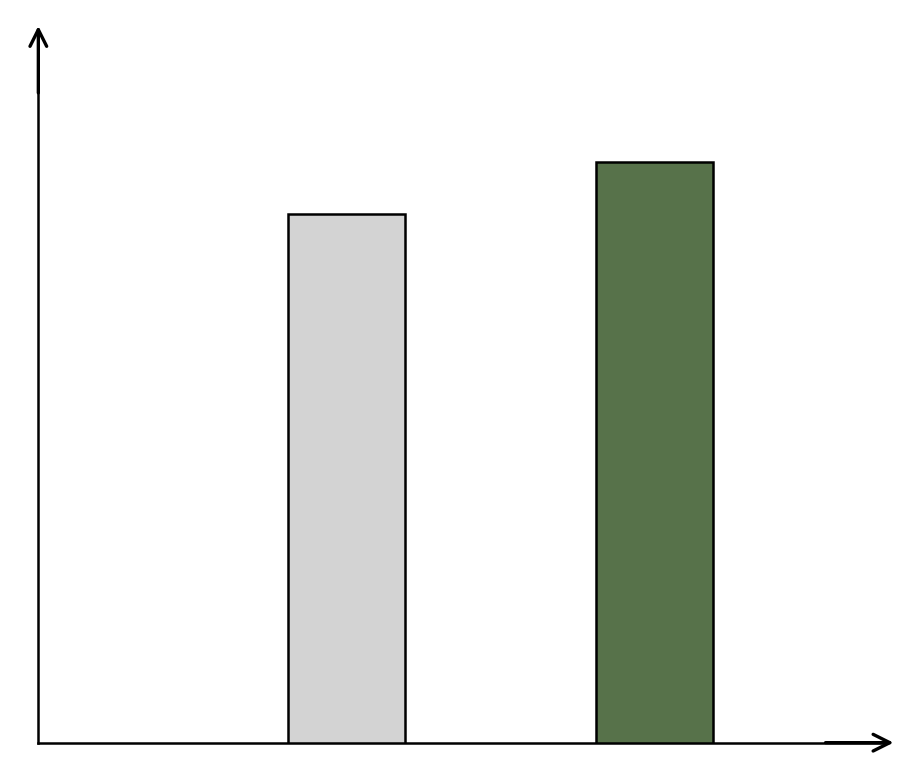
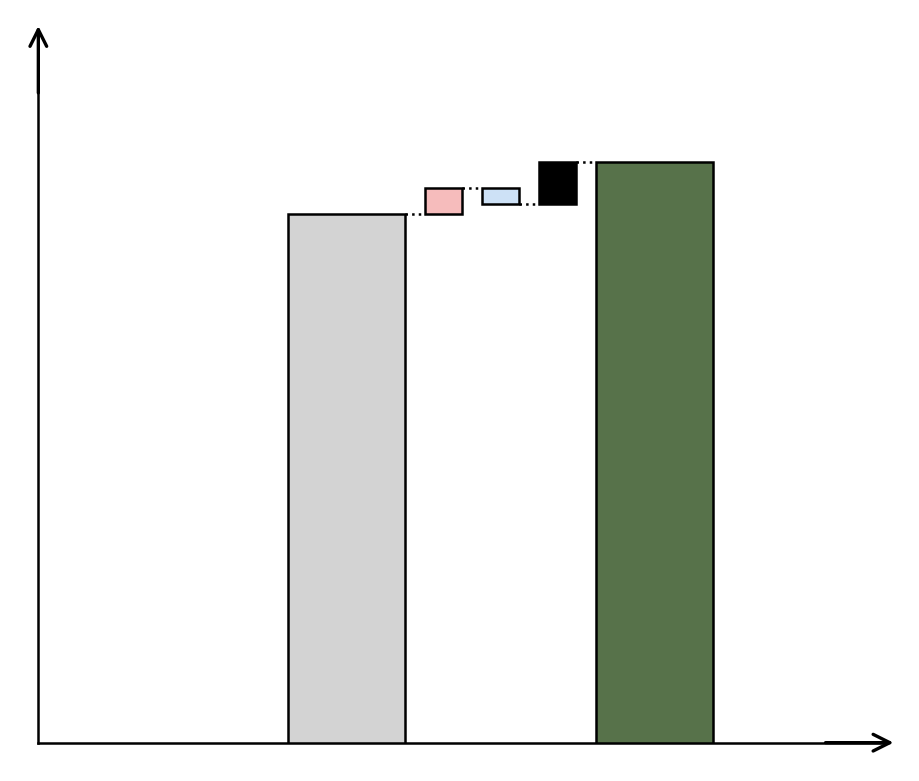
Add PPT waterfall mini-bars with equal spacing and step connectors only.

Changed region(s): [[0.457, 0.1844, 0.6398, 0.2766]]

diff --git a/analysis/paper_figures/ppt_bars_indic.py b/analysis/paper_figures/ppt_bars_indic.py
@@ -2,27 +2,107 @@
 Minimal PPT-style bar charts: L-shaped axes with arrows, no ticks or labels.
 
 - ppt_bar_1gray.png: one gray bar of height 1.
-- ppt_bar_2gray_green.png: gray bar 1 + green (#57724A) bar 1.1 side by side (waterfall connectors later).
+- ppt_bar_2gray_green.png: gray baseline + three mini waterfall deltas + green total bar.
 """
 
 from __future__ import annotations
 
+from dataclasses import dataclass
 from pathlib import Path
 
 import matplotlib.pyplot as plt
-import numpy as np
+
+from plot_colors import COLOR_THERMAL, COLOR_VISC_HOT
 
 GREEN_HEX = "#57724A"
-# Bar width and axis limits match the two-bar plot so both figs share the same pixel scale.
+# Bar width and axis limits shared across both figs for consistent pixel scale.
 BAR_WIDTH = 0.38
+MINI_BAR_WIDTH = 0.12
 X_MAX = 2.75
 Y_MAX = 1.32
 FIGSIZE = (3.4, 2.8)
 SUBPLOT_ADJ = dict(left=0.12, right=0.95, bottom=0.12, top=0.95)
 GRAY = "lightgray"
+BLACK = "black"
 EDGE = "black"
 EDGE_LW = 0.6
 ARROW_LW = 0.8
+
+# Placeholder waterfall data (easy to swap later).
+BASELINE = 1.0
+BASELINE_X = 1.0
+TOTAL_X = 2.0
+DELTAS: list[tuple[float, str | tuple[float, float, float, float]]] = [
+    (0.05, COLOR_THERMAL),
+    (-0.03, COLOR_VISC_HOT),
+    (0.08, BLACK),
+]
+
+
+@dataclass(frozen=True)
+class _BarSpec:
+    x: float
+    bottom: float
+    height: float
+    width: float
+    color: str | tuple[float, float, float, float]
+
+
+def _delta_bar_geom(cumul: float, delta: float) -> tuple[float, float, float]:
+    """Return (bottom, height, top) for a floating delta bar."""
+    if delta >= 0:
+        return cumul, delta, cumul + delta
+    return cumul + delta, -delta, cumul
+
+
+def _waterfall_mini_xs(
+    baseline_x: float,
+    total_x: float,
+    n_mini: int,
+    main_width: float = BAR_WIDTH,
+    mini_width: float = MINI_BAR_WIDTH,
+) -> list[float]:
+    """Mini-bar centers with equal edge gaps: gray|gap|mini|gap|...|gap|green."""
+    gray_right = baseline_x + main_width / 2
+    green_left = total_x - main_width / 2
+    gap = (green_left - gray_right - n_mini * mini_width) / (n_mini + 1)
+
+    xs: list[float] = []
+    cursor = gray_right + gap + mini_width / 2
+    for _ in range(n_mini):
+        xs.append(cursor)
+        cursor += mini_width + gap
+    return xs
+
+
+def _draw_bar(ax: plt.Axes, spec: _BarSpec, *, zorder: int = 3) -> None:
+    ax.bar(
+        spec.x,
+        spec.height,
+        width=spec.width,
+        bottom=spec.bottom,
+        color=spec.color,
+        edgecolor=EDGE,
+        linewidth=EDGE_LW,
+        zorder=zorder,
+    )
+
+
+def _draw_connector(
+    ax: plt.Axes,
+    left: _BarSpec,
+    right: _BarSpec,
+    y: float,
+    *,
+    zorder: int = 4,
+) -> None:
+    ax.plot(
+        [left.x + left.width / 2, right.x - right.width / 2],
+        [y, y],
+        "k:",
+        linewidth=EDGE_LW,
+        zorder=zorder,
+    )
 
 
 def _style_axes_arrows(ax: plt.Axes, x_max: float, y_max: float) -> None:
@@ -73,9 +153,7 @@ def _fig_one_gray_bar() -> plt.Figure:
     fig.patch.set_facecolor("white")
     ax.set_facecolor("white")
 
-    x = np.array([1.0])
-    h = np.array([1.0])
-    ax.bar(x, h, width=BAR_WIDTH, color=GRAY, edgecolor=EDGE, linewidth=EDGE_LW, zorder=3)
+    _draw_bar(ax, _BarSpec(x=1.0, bottom=0.0, height=BASELINE, width=BAR_WIDTH, color=GRAY))
 
     _style_axes_arrows(ax, x_max=X_MAX, y_max=Y_MAX)
     ax.set_aspect("auto")
@@ -83,16 +161,30 @@ def _fig_one_gray_bar() -> plt.Figure:
     return fig
 
 
-def _fig_two_bars() -> plt.Figure:
+def _fig_waterfall_bars() -> plt.Figure:
     fig, ax = plt.subplots(figsize=FIGSIZE, dpi=150)
     fig.patch.set_facecolor("white")
     ax.set_facecolor("white")
 
-    xs = np.array([1.0, 2.0])
-    heights = np.array([1.0, 1.1])
-    colors = [GRAY, GREEN_HEX]
-    for xi, hi, c in zip(xs, heights, colors, strict=True):
-        ax.bar(xi, hi, width=BAR_WIDTH, color=c, edgecolor=EDGE, linewidth=EDGE_LW, zorder=3)
+    baseline = _BarSpec(x=BASELINE_X, bottom=0.0, height=BASELINE, width=BAR_WIDTH, color=GRAY)
+    _draw_bar(ax, baseline)
+
+    mini_xs = _waterfall_mini_xs(BASELINE_X, TOTAL_X, len(DELTAS))
+    cumul = BASELINE
+    prev = baseline
+
+    for (delta, color), x in zip(DELTAS, mini_xs, strict=True):
+        bottom, height, _top = _delta_bar_geom(cumul, delta)
+        spec = _BarSpec(x=x, bottom=bottom, height=height, width=MINI_BAR_WIDTH, color=color)
+        _draw_connector(ax, prev, spec, y=cumul)
+        _draw_bar(ax, spec)
+        cumul += delta
+        prev = spec
+
+    final_total = cumul
+    total = _BarSpec(x=TOTAL_X, bottom=0.0, height=final_total, width=BAR_WIDTH, color=GREEN_HEX)
+    _draw_connector(ax, prev, total, y=cumul)
+    _draw_bar(ax, total)
 
     _style_axes_arrows(ax, x_max=X_MAX, y_max=Y_MAX)
     ax.set_aspect("auto")
@@ -110,7 +202,7 @@ def main() -> None:
     plt.close(fig1)
     print(f"Wrote {p1}")
 
-    fig2 = _fig_two_bars()
+    fig2 = _fig_waterfall_bars()
     p2 = out_dir / "ppt_bar_2gray_green.png"
     fig2.savefig(p2, dpi=300, facecolor="white", bbox_inches="tight")
     plt.close(fig2)
